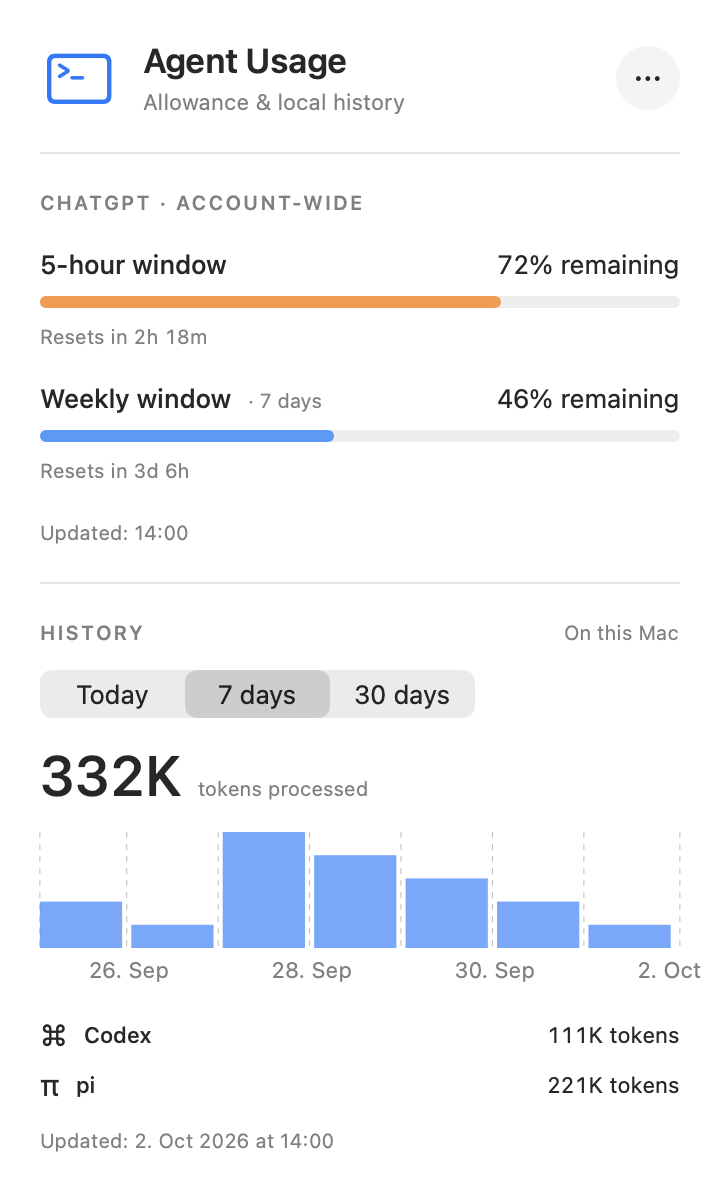
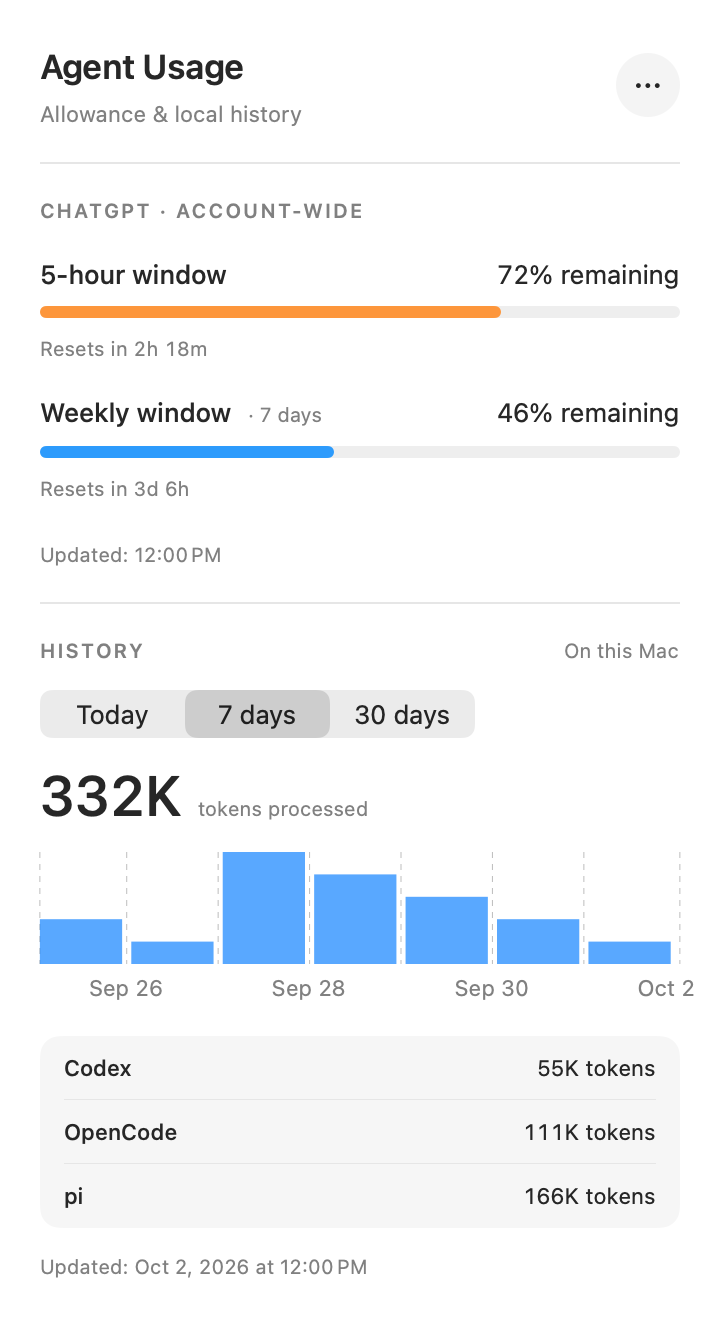
docs(readme): refresh dashboard screenshot (#42)
* docs(readme): refresh dashboard screenshot

* docs(readme): keep screenshot refresh focused

diff --git a/Tests/AgentUsageTests/DashboardRenderingTests.swift b/Tests/AgentUsageTests/DashboardRenderingTests.swift
@@ -37,7 +37,7 @@ final class DashboardRenderingTests: XCTestCase {
                     zero: name == "zero-light",
                     agents: name == "pi-only-light"
                         ? [.pi]
-                        : name == "codex-only-light" ? [.codex] : [.codex, .pi]
+                        : name == "codex-only-light" ? [.codex] : [.codex, .openCode, .pi]
                 )
             )
             let history = HistoryStore(fetch: { try await readings.history() })

diff --git a/README.md b/README.md
@@ -2,7 +2,7 @@
 
 Your ChatGPT limits and local [pi](https://pi.dev), Codex, and [OpenCode](https://opencode.ai) token usage, right in your macOS menu bar.
 
-<img src="docs/images/dashboard.png" alt="Agent Usage dashboard showing remaining ChatGPT limits, reset countdowns, and combined 7-day token usage with Codex and pi totals" width="360">
+<img src="docs/images/dashboard.png" alt="Agent Usage dashboard showing remaining ChatGPT limits, reset countdowns, and combined 7-day token usage with per-agent totals for Codex, OpenCode, and pi" width="360">
 
 *Example dashboard with synthetic data.*
 
